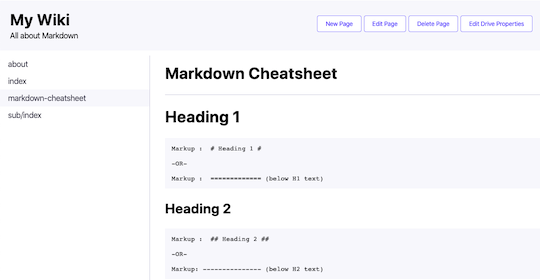
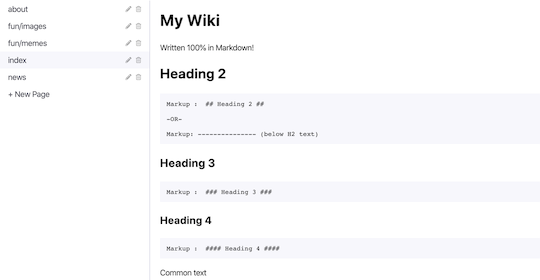
Rework beaker-wiki frontend

diff --git a/app/assets/frontends/beaker-wiki/ui.js b/app/assets/frontends/beaker-wiki/ui.js
@@ -20,78 +20,6 @@ async function ensureParentDir (p) {
   }
 }
 
-customElements.define('wiki-header', class extends HTMLElement {
-  constructor () {
-    super()
-    this.load()
-  }
-
-  async load () {
-    this.info = await self.getInfo()
-    this.render()
-  }
-
-  render () {
-    this.append(h('h1', {}, h('a', {href: '/'}, this.info.title)))
-    if (this.info.description) {
-      this.append(h('p', {}, this.info.description))
-    }
-
-    if (this.info.writable) {
-      let buttons = []
-
-      if (!isEditing) {
-        let newPage = h('button', {}, 'New Page')
-        newPage.addEventListener('click', async (e) => {
-          var newPathname = prompt('Enter the path of the new page')
-          if (!newPathname) return
-          if (!newPathname.endsWith('.md')) newPathname += '.md'
-          await ensureParentDir(newPathname)
-          if ((await self.stat(newPathname).catch(e => undefined)) === undefined) {
-            await self.writeFile(newPathname, `# ${newPathname}`)
-          }
-          location = newPathname + '?edit'
-        })
-        buttons.push(newPage)
-
-        if (/\.(png|jpe?g|gif|mp4|mp3|ogg|webm|mov)$/.test(pathname) === false) {
-          let editPage = h('button', {}, 'Edit Page')
-          editPage.addEventListener('click', async (e) => {
-            location.search = '?edit'
-          })
-          buttons.push(editPage)
-        }
-      } else {
-        let savePage = h('button', {class: 'primary'}, 'Save Page')
-        savePage.addEventListener('click', async (e) => {
-          let value = document.body.querySelector('textarea.editor').value
-          await self.writeFile(pathname, value)
-          location.search = ''
-        })
-        buttons.push(savePage)
-      }
-
-      let deletePage = h('button', {}, 'Delete Page')
-      deletePage.addEventListener('click', async (e) => {
-        if (!confirm('Delete this page?')) return
-        await self.unlink(pathname)
-        if (isEditing) location.search = ''
-        else location.reload()
-      })
-      buttons.push(deletePage)
-
-      let editProps = h('button', {}, 'Edit Drive Properties')
-      editProps.addEventListener('click', async (e) => {
-        await navigator.drivePropertiesDialog(self.url)
-        if (!isEditing) location.reload()
-      })
-      buttons.push(editProps)
-
-      this.append(h('div', {class: 'admin'}, ...buttons))
-    }
-  }
-})
-
 customElements.define('wiki-nav', class extends HTMLElement {
   constructor () {
     super()
@@ -99,6 +27,8 @@ customElements.define('wiki-nav', class extends HTMLElement {
   }
 
   async load () {
+    this.innerHTML = ''
+    this.info = await self.getInfo()
     this.files = await self.readdir('/', {recursive: true})
     this.files = this.files.filter(file => file.endsWith('.md'))
     this.files.sort()
@@ -109,10 +39,48 @@ customElements.define('wiki-nav', class extends HTMLElement {
     for (let file of this.files) {
       let href = `/${file}`
       let cls = pathname === href ? 'active' : ''
-      this.append(h('a', {href, class: cls}, file.slice(0, -3)))
+      let buttons = []
+
+      if (this.info.writable) {
+        if (/\.(png|jpe?g|gif|mp4|mp3|ogg|webm|mov)$/.test(file) === false) {
+          let editPage = h('img', {src: '/.ui/pencil.svg', alt: 'Edit', title: 'Edit'})
+          editPage.addEventListener('click', async (e) => {
+            e.preventDefault()
+            location = `${href}?edit`
+          })
+          buttons.push(editPage)
+        }
+        let deletePage = h('img', {src: '/.ui/trash.svg', alt: 'Delete', title: 'Delete'})
+        deletePage.addEventListener('click', async (e) => {
+          e.preventDefault()
+          if (!confirm('Delete this page?')) return
+          await self.unlink(href)
+          if (href === pathname) location.reload()
+          else this.load()
+        })
+        buttons.push(deletePage)
+      }
+
+      this.append(h('a', {href, class: cls}, h('span', {}, file.slice(0, -3)), h('span', {class: 'buttons'}, ...buttons)))
     }
     if (this.files.length === 0) {
       this.append(h('div', {class: 'empty'}, 'This Wiki has no pages'))
+    }
+
+    if (this.info.writable) {
+      let newPage = h('a', {href: '#'}, '+ New Page')
+      newPage.addEventListener('click', async (e) => {
+        e.preventDefault()
+        var newPathname = prompt('Enter the path of the new page')
+        if (!newPathname) return
+        if (!newPathname.endsWith('.md')) newPathname += '.md'
+        await ensureParentDir(newPathname)
+        if ((await self.stat(newPathname).catch(e => undefined)) === undefined) {
+          await self.writeFile(newPathname, `# ${newPathname}`)
+        }
+        this.load()
+      })
+      this.append(newPage)
     }
   }
 })
@@ -130,7 +98,7 @@ customElements.define('wiki-page', class extends HTMLElement {
       // 404
       let canEdit = (await self.getInfo()).writable
       if (canEdit) {
-        let btn = h('button', {}, 'Create Page')
+        let btn = h('button', {class: 'primary'}, 'Create Page')
         btn.addEventListener('click', async (e) => {
           await ensureParentDir(pathname)
           await self.writeFile(pathname, `# ${pathname}`)
@@ -154,7 +122,19 @@ customElements.define('wiki-page', class extends HTMLElement {
       let content = await self.readFile(pathname)
       if (isEditing) {
         // render editor
-        let textarea = h('textarea', {class: 'editor'}, content)
+        let savePage = h('button', {}, 'Save Changes')
+        savePage.addEventListener('click', async (e) => {
+          let value = document.body.querySelector('textarea.editor').value
+          await self.writeFile(pathname, value)
+          location.search = ''
+        })
+        let discardChanges = h('button', {}, 'Discard Changes')
+        discardChanges.addEventListener('click', async (e) => {
+          location.search = ''
+        })
+        this.append(h('div', {class: 'buttons'}, savePage, discardChanges))
+
+        let textarea = h('textarea', {class: 'editor', autofocus: true}, content)
         this.append(textarea)
       } else {
         // render content

diff --git a/app/assets/frontends/beaker-wiki/ui.css b/app/assets/frontends/beaker-wiki/ui.css
@@ -4,9 +4,7 @@ body {
   font-family: -apple-system, BlinkMacSystemFont, 'Segoe UI', Roboto, Oxygen, Ubuntu, Cantarell, 'Open Sans', 'Helvetica Neue', sans-serif;
   margin: 0;
   display: grid;
-  grid-gap: 10px;
   grid-template-columns: 300px 1fr;
-  grid-template-rows: 100px 1fr;
   min-height: 100vh;
   min-width: 100vh;
 }
@@ -22,11 +20,11 @@ a:hover {
 button {
   padding: 0.5rem 1rem;
   background: #fff;
-  border: 1px solid #88f;
+  border: 1px solid #ccd;
   border-radius: 4px;
-  color: blue;
   outline: 0;
   font-size: 12px;
+  cursor: pointer;
 }
 
 button:active {
@@ -34,9 +32,8 @@ button:active {
 }
 
 button.primary {
-  color: #fff;
-  background: blue;
-  border-color: blue;
+  color: #1073ca;
+  border: 1px solid #1E88E5;
 }
 
 header {
@@ -50,36 +47,6 @@ nav {
 }
 
 main {
-  padding-left: 20px;
-}
-
-wiki-header {
-  position: relative;
-  display: flex;
-  flex-direction: column;
-  justify-content: center;
-  height: 100px;
-  padding: 0 20px;
-}
-
-wiki-header h1,
-wiki-header p {
-  margin: 0.25rem 0;
-  line-height: 1;
-}
-
-wiki-header h1 a {
-  color: inherit;
-}
-
-wiki-header .admin {
-  position: absolute;
-  top: 30px;
-  right: 20px;
-}
-
-wiki-header .admin button {
-  margin-left: 5px;
 }
 
 wiki-nav {
@@ -88,14 +55,12 @@ wiki-nav {
 }
 
 wiki-nav a {
-  display: block;
+  display: flex;
+  align-items: center;
+  justify-content: space-between;
   color: #445;
   padding: 0.5rem 1rem;
   margin: 0;
-}
-
-wiki-nav a:last-child {
-  border-bottom: 0;
 }
 
 wiki-nav a:hover {
@@ -107,13 +72,29 @@ wiki-nav a.active {
   background: var(--light-gray);
 }
 
+wiki-nav a img {
+  display: inline-block;
+  width: 12px;
+  height: 12px;
+  margin-left: 8px;
+  opacity: 0.35;
+}
+
+wiki-nav a img:hover {
+  opacity: 1;
+}
+
 wiki-nav .empty {
   padding: 0.6rem 1rem;
   color: #667;
 }
 
+.content {
+  padding: 20px;
+}
+
 .content > :first-child {
-  margin-top: 1rem;
+  margin-top: 0;
 }
 .content hr {
   border: 0;
@@ -161,14 +142,23 @@ wiki-page .empty button {
 }
 
 wiki-page textarea.editor {
-  width: calc(100% - 20px);
-  height: calc(100vh - 130px);
-  margin-top: 10px;
+  width: 100%;
+  height: calc(100vh - 66px);
   padding: 20px;
   box-sizing: border-box;
-  border: 1px solid #ccd;
+  border: 0;
   font-size: 17px;
   letter-spacing: 0.75px;
   line-height: 1.4;
   outline: 0;
+  resize: none;
+}
+
+wiki-page .buttons {
+  padding: 16px;
+  border-bottom: 1px solid #ccd;
+}
+
+wiki-page .buttons button {
+  margin-right: 5px;
 }

diff --git a/app/assets/frontends/beaker-wiki/ui.html b/app/assets/frontends/beaker-wiki/ui.html
@@ -6,9 +6,6 @@
     <link rel="stylesheet" href="/.ui/ui.css">
   </head>
   <body>
-    <header>
-      <wiki-header></wiki-header>
-    </header>
     <nav>
       <wiki-nav></wiki-nav>
     </nav>
